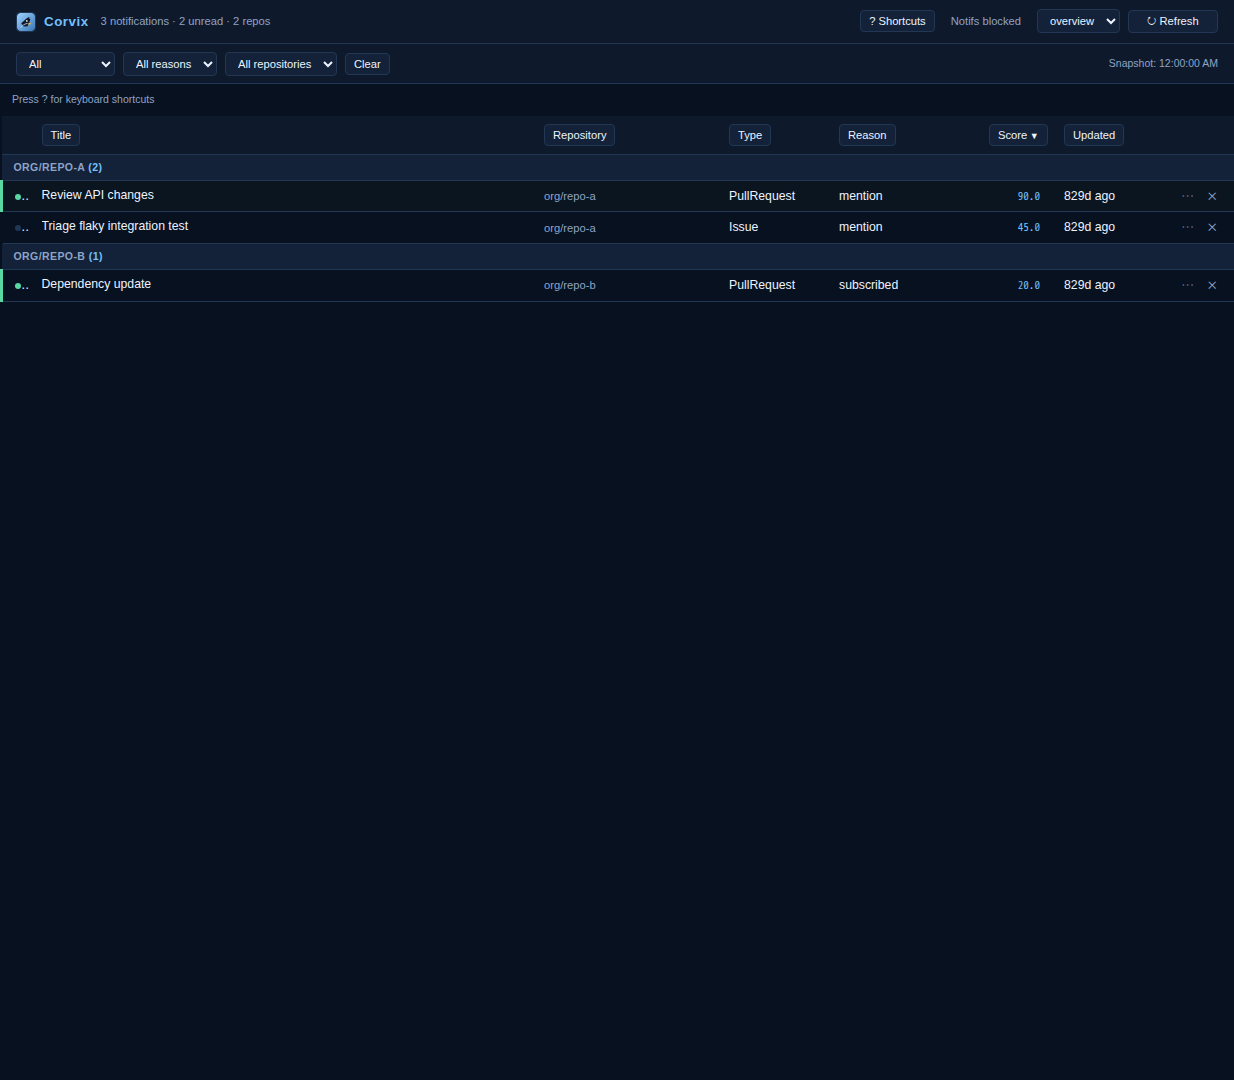
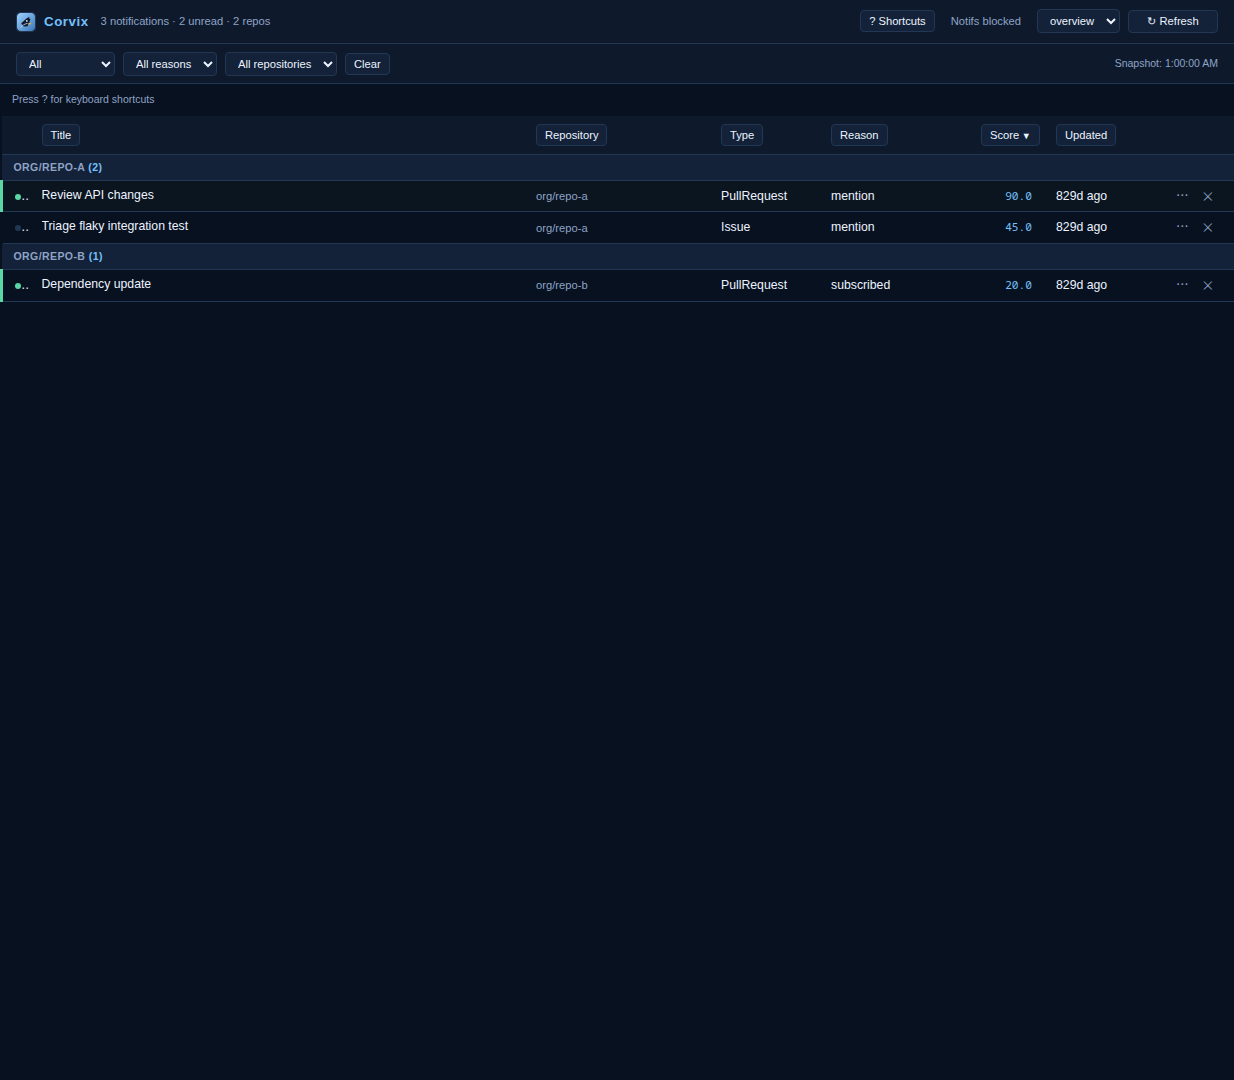
fix: add PollerWarning test coverage and fix e2e test failures
- Create frontend/src/components/PollerWarning.test.tsx with 10 tests
  covering error, pending, stale states and last_poll_time formatting
- Add PollerWarning integration tests to app.test.tsx for error and
  stale poller states
- Add poller_status to e2e conftest cache fixture to prevent 'unknown'
  poller status from rendering a warning banner during e2e tests
- Fix col-actions td overflow and width to prevent Playwright click
  interception on dismiss buttons in e2e tests
- Frontend branch coverage: 78.42% -> 81.73% (passes 80% threshold)

diff --git a/frontend/src/components/PollerWarning.test.tsx b/frontend/src/components/PollerWarning.test.tsx
@@ -1,0 +1,142 @@
+import { render, screen } from "@testing-library/preact";
+import type { PollerStatus } from "../types";
+import { PollerWarning } from "./PollerWarning";
+
+function makePoller(overrides: Partial<PollerStatus> = {}): PollerStatus {
+	return {
+		status: "ok",
+		last_poll_time: null,
+		last_error: null,
+		last_error_time: null,
+		stale: false,
+		...overrides,
+	};
+}
+
+describe("PollerWarning", () => {
+	it("renders null when status is ok and not stale", () => {
+		const { container } = render(
+			<PollerWarning poller={makePoller({ status: "ok", stale: false })} />,
+		);
+		expect(container.firstChild).toBeNull();
+	});
+
+	it("renders error alert with last_error message", () => {
+		render(
+			<PollerWarning
+				poller={makePoller({
+					status: "error",
+					last_error: "line1\nline2\nline3\nlast two lines",
+				})}
+			/>,
+		);
+		const alert = screen.getByRole("alert");
+		expect(alert).toHaveClass("poller-warning--error");
+		expect(alert).toHaveTextContent("line3 last two lines");
+	});
+
+	it("renders error alert with default message when last_error is null", () => {
+		render(
+			<PollerWarning
+				poller={makePoller({ status: "error", last_error: null })}
+			/>,
+		);
+		const alert = screen.getByRole("alert");
+		expect(alert).toHaveClass("poller-warning--error");
+		expect(alert).toHaveTextContent("Poller encountered an error.");
+	});
+
+	it("renders pending alert for unknown status", () => {
+		render(<PollerWarning poller={makePoller({ status: "unknown" })} />);
+		const alert = screen.getByRole("alert");
+		expect(alert).toHaveClass("poller-warning--pending");
+		expect(alert).toHaveTextContent("Waiting for poller to start...");
+	});
+
+	it("renders pending alert for starting status", () => {
+		render(<PollerWarning poller={makePoller({ status: "starting" })} />);
+		const alert = screen.getByRole("alert");
+		expect(alert).toHaveClass("poller-warning--pending");
+		expect(alert).toHaveTextContent("Waiting for poller to start...");
+	});
+
+	it("renders stale alert when ok but stale without last_poll_time", () => {
+		render(
+			<PollerWarning
+				poller={makePoller({
+					status: "ok",
+					stale: true,
+					last_poll_time: null,
+				})}
+			/>,
+		);
+		const alert = screen.getByRole("alert");
+		expect(alert).toHaveClass("poller-warning--stale");
+		expect(alert).toHaveTextContent("Data may be stale.");
+	});
+
+	it("renders stale alert with seconds-ago timestamp", () => {
+		vi.useFakeTimers();
+		vi.setSystemTime(new Date("2026-04-09T10:01:30Z"));
+		render(
+			<PollerWarning
+				poller={makePoller({
+					status: "ok",
+					stale: true,
+					last_poll_time: "2026-04-09T10:01:00Z",
+				})}
+			/>,
+		);
+		const alert = screen.getByRole("alert");
+		expect(alert).toHaveTextContent("(last update 30s ago)");
+		vi.useRealTimers();
+	});
+
+	it("renders stale alert with minutes-ago timestamp", () => {
+		vi.useFakeTimers();
+		vi.setSystemTime(new Date("2026-04-09T10:05:00Z"));
+		render(
+			<PollerWarning
+				poller={makePoller({
+					status: "ok",
+					stale: true,
+					last_poll_time: "2026-04-09T10:00:00Z",
+				})}
+			/>,
+		);
+		const alert = screen.getByRole("alert");
+		expect(alert).toHaveTextContent("(last update 5m ago)");
+		vi.useRealTimers();
+	});
+
+	it("renders stale alert with hours-ago timestamp", () => {
+		vi.useFakeTimers();
+		vi.setSystemTime(new Date("2026-04-09T12:00:00Z"));
+		render(
+			<PollerWarning
+				poller={makePoller({
+					status: "ok",
+					stale: true,
+					last_poll_time: "2026-04-09T10:00:00Z",
+				})}
+			/>,
+		);
+		const alert = screen.getByRole("alert");
+		expect(alert).toHaveTextContent("(last update 2h ago)");
+		vi.useRealTimers();
+	});
+
+	it("handles invalid last_poll_time gracefully", () => {
+		render(
+			<PollerWarning
+				poller={makePoller({
+					status: "ok",
+					stale: true,
+					last_poll_time: "not-a-date",
+				})}
+			/>,
+		);
+		const alert = screen.getByRole("alert");
+		expect(alert).toHaveTextContent("Data may be stale (last update ).");
+	});
+});

diff --git a/frontend/src/app.test.tsx b/frontend/src/app.test.tsx
@@ -490,6 +490,62 @@ describe("App", () => {
 		).toBeInTheDocument();
 	});
 
+	it("shows poller warning banner when poller status is error", async () => {
+		setPath("/");
+		vi.spyOn(globalThis, "fetch").mockResolvedValue({
+			ok: true,
+			json: async () =>
+				makeSnapshot({
+					poller: {
+						status: "error",
+						last_poll_time: "2026-04-09T10:00:00Z",
+						last_error: "Something failed",
+						last_error_time: "2026-04-09T10:00:00Z",
+						stale: false,
+					},
+					groups: [{ name: "g", items: [makeItem()] }],
+				}),
+		} as Response);
+
+		render(<App />);
+
+		await waitFor(() => {
+			expect(screen.getByRole("alert", { name: undefined })).toHaveTextContent(
+				"Something failed",
+			);
+		});
+		expect(
+			screen.getByRole("alert").classList.contains("poller-warning--error"),
+		).toBe(true);
+	});
+
+	it("shows poller warning banner when poller is ok but stale", async () => {
+		setPath("/");
+		vi.spyOn(globalThis, "fetch").mockResolvedValue({
+			ok: true,
+			json: async () =>
+				makeSnapshot({
+					poller: {
+						status: "ok",
+						last_poll_time: null,
+						last_error: null,
+						last_error_time: null,
+						stale: true,
+					},
+					groups: [{ name: "g", items: [makeItem()] }],
+				}),
+		} as Response);
+
+		render(<App />);
+
+		await waitFor(() => {
+			expect(screen.getByRole("alert")).toHaveTextContent("Data may be stale");
+		});
+		expect(
+			screen.getByRole("alert").classList.contains("poller-warning--stale"),
+		).toBe(true);
+	});
+
 	it("opens ignore-rule dialog from row context menu and loads both snippets", async () => {
 		setPath("/");
 		const snapshot = makeSnapshot({

diff --git a/frontend/src/styles/app.css b/frontend/src/styles/app.css
@@ -223,7 +223,7 @@ button:disabled { opacity: 0.6; cursor: default; }
    Title is flexible (auto) and absorbs all remaining space. Other columns sized to their
    longest typical content value to minimise wasted whitespace. */
 .col-status { width: 28px; text-align: center; }         /* unread dot */
-.col-actions { width: 72px; text-align: center; }        /* row actions */
+.col-actions { width: 80px; text-align: center; overflow: visible; }        /* row actions */
 .col-score { width: 75px; text-align: right; }           /* "Score" header + "72.9" data */
 .col-updated { width: 110px; }                           /* "Updated" header + up to "59m ago" data */
 .col-type { width: 110px; }                              /* longest common value: "PullRequest" */

diff --git a/tests/e2e/conftest.py b/tests/e2e/conftest.py
@@ -9,6 +9,7 @@ import subprocess
 import threading
 import time
 from collections.abc import Generator
+from datetime import UTC, datetime
 from http import HTTPStatus
 from http.server import BaseHTTPRequestHandler, ThreadingHTTPServer
 from pathlib import Path
@@ -91,6 +92,12 @@ def corvix_server(tmp_path_factory: pytest.TempPathFactory, mock_github_api: str
         json.dumps(
             {
                 "generated_at": FIXED_TIMESTAMP,
+                "poller_status": {
+                    "status": "ok",
+                    "last_poll_time": datetime.now(UTC).isoformat().replace("+00:00", "Z"),
+                    "last_error": None,
+                    "last_error_time": None,
+                },
                 "notifications": [
                     {
                         "thread_id": "101",

diff --git a/AGENTS.md b/AGENTS.md
@@ -13,6 +13,7 @@ uv run pytest tests/test_services.py::test_foo       # run a single test
 uv run ruff check .                                  # lint
 uv run ruff format .                                 # format
 uv run ty check src/corvix/                          # type check
+make frontend-build                                  # build frontend assets
 npm --prefix frontend run test -- --run              # run native frontend tests
 npm --prefix frontend run test:coverage              # frontend coverage (>=80%)
 
@@ -40,23 +41,29 @@ This starts three services sharing a `corvix_state` volume:
 
 1. `config/corvix.yaml` must exist (copy from `config/corvix.example.yaml`)
 2. `.env` must exist at the repository root containing one or more GitHub token
-   environment variables. For a single account setup, use ``GITHUB_TOKEN``
-   unless you have set ``token_env`` to a different name in your
-   ``config/corvix.yaml``. For multiple accounts, ensure the variable names
-   match the ``token_env`` entries in your ``config/corvix.yaml``. Example:
+   environment variables.  For a single account setup use
+   ``GITHUB_TOKEN_PRIMARY``; for multiple accounts ensure the variable
+   names match the ``token_env`` entries in your ``config/corvix.yaml``.
+   Example:
 
    ```bash
-   GITHUB_TOKEN=ghp_...yourtoken...
+   GITHUB_TOKEN_PRIMARY=ghp_...yourtoken...
    GITHUB_TOKEN_ACCOUNT2=ghp_...anothertoken...
    ```
 
 3. `secrets/postgres_password.txt` and `secrets/database_url.txt` must exist
 
-Ensure the `token_env` entries in your `config/corvix.yaml` match the variable names
-in `.env` (for example `GITHUB_TOKEN` or `GITHUB_TOKEN_ACCOUNT2`, unless you
-override `token_env` to use a different variable name such as
-`GITHUB_TOKEN_PRIMARY`). The Docker Compose setup loads `.env` into containers
-so Corvix can resolve each account token by name.
+If you have multiple GitHub tokens, instead create a `.env` file at the repository root
+containing one or more token environment variables (do not commit this file). Example:
+
+```bash
+GITHUB_TOKEN_ACCOUNT1=ghp_...yourtoken...
+GITHUB_TOKEN_ACCOUNT2=ghp_...anothertoken...
+```
+
+Ensure the `token_env` entries in your `config/corvix.yaml` match these variable names
+(for example `GITHUB_TOKEN_ACCOUNT1`). The Docker Compose setup will load `.env` into
+the containers so Corvix can resolve each account's token by name.
 
 Frontend assets are generated during image build and are not committed to git. Rebuild images (`docker compose up --build`) after frontend changes.
 